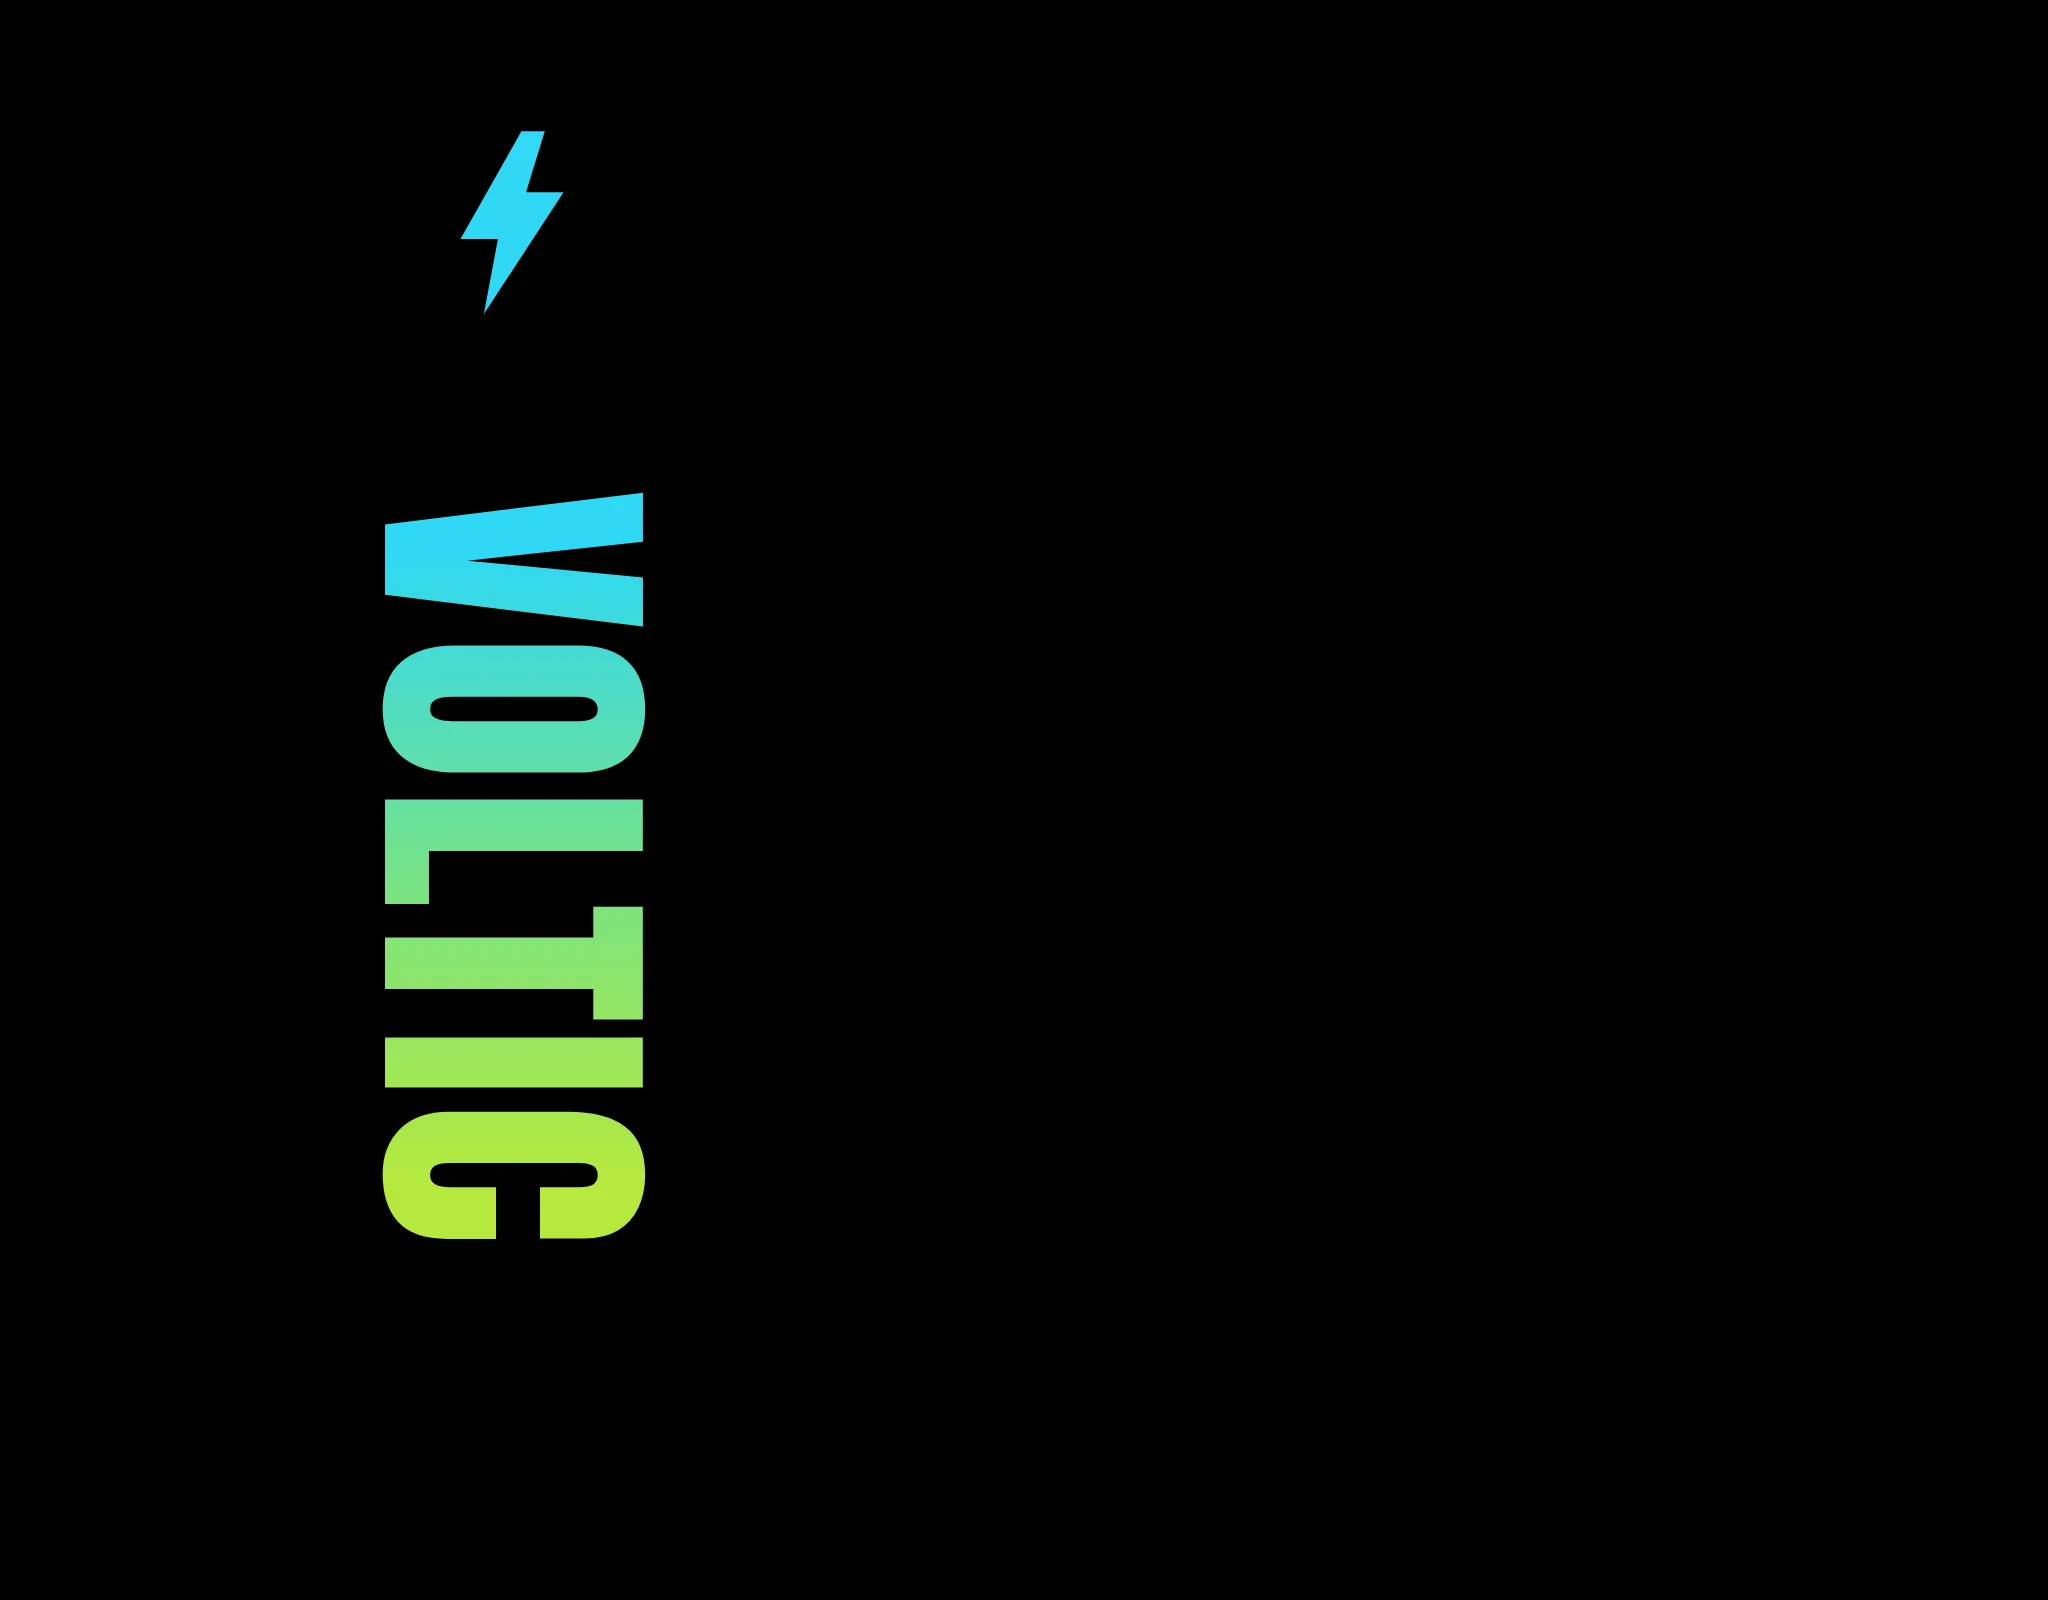
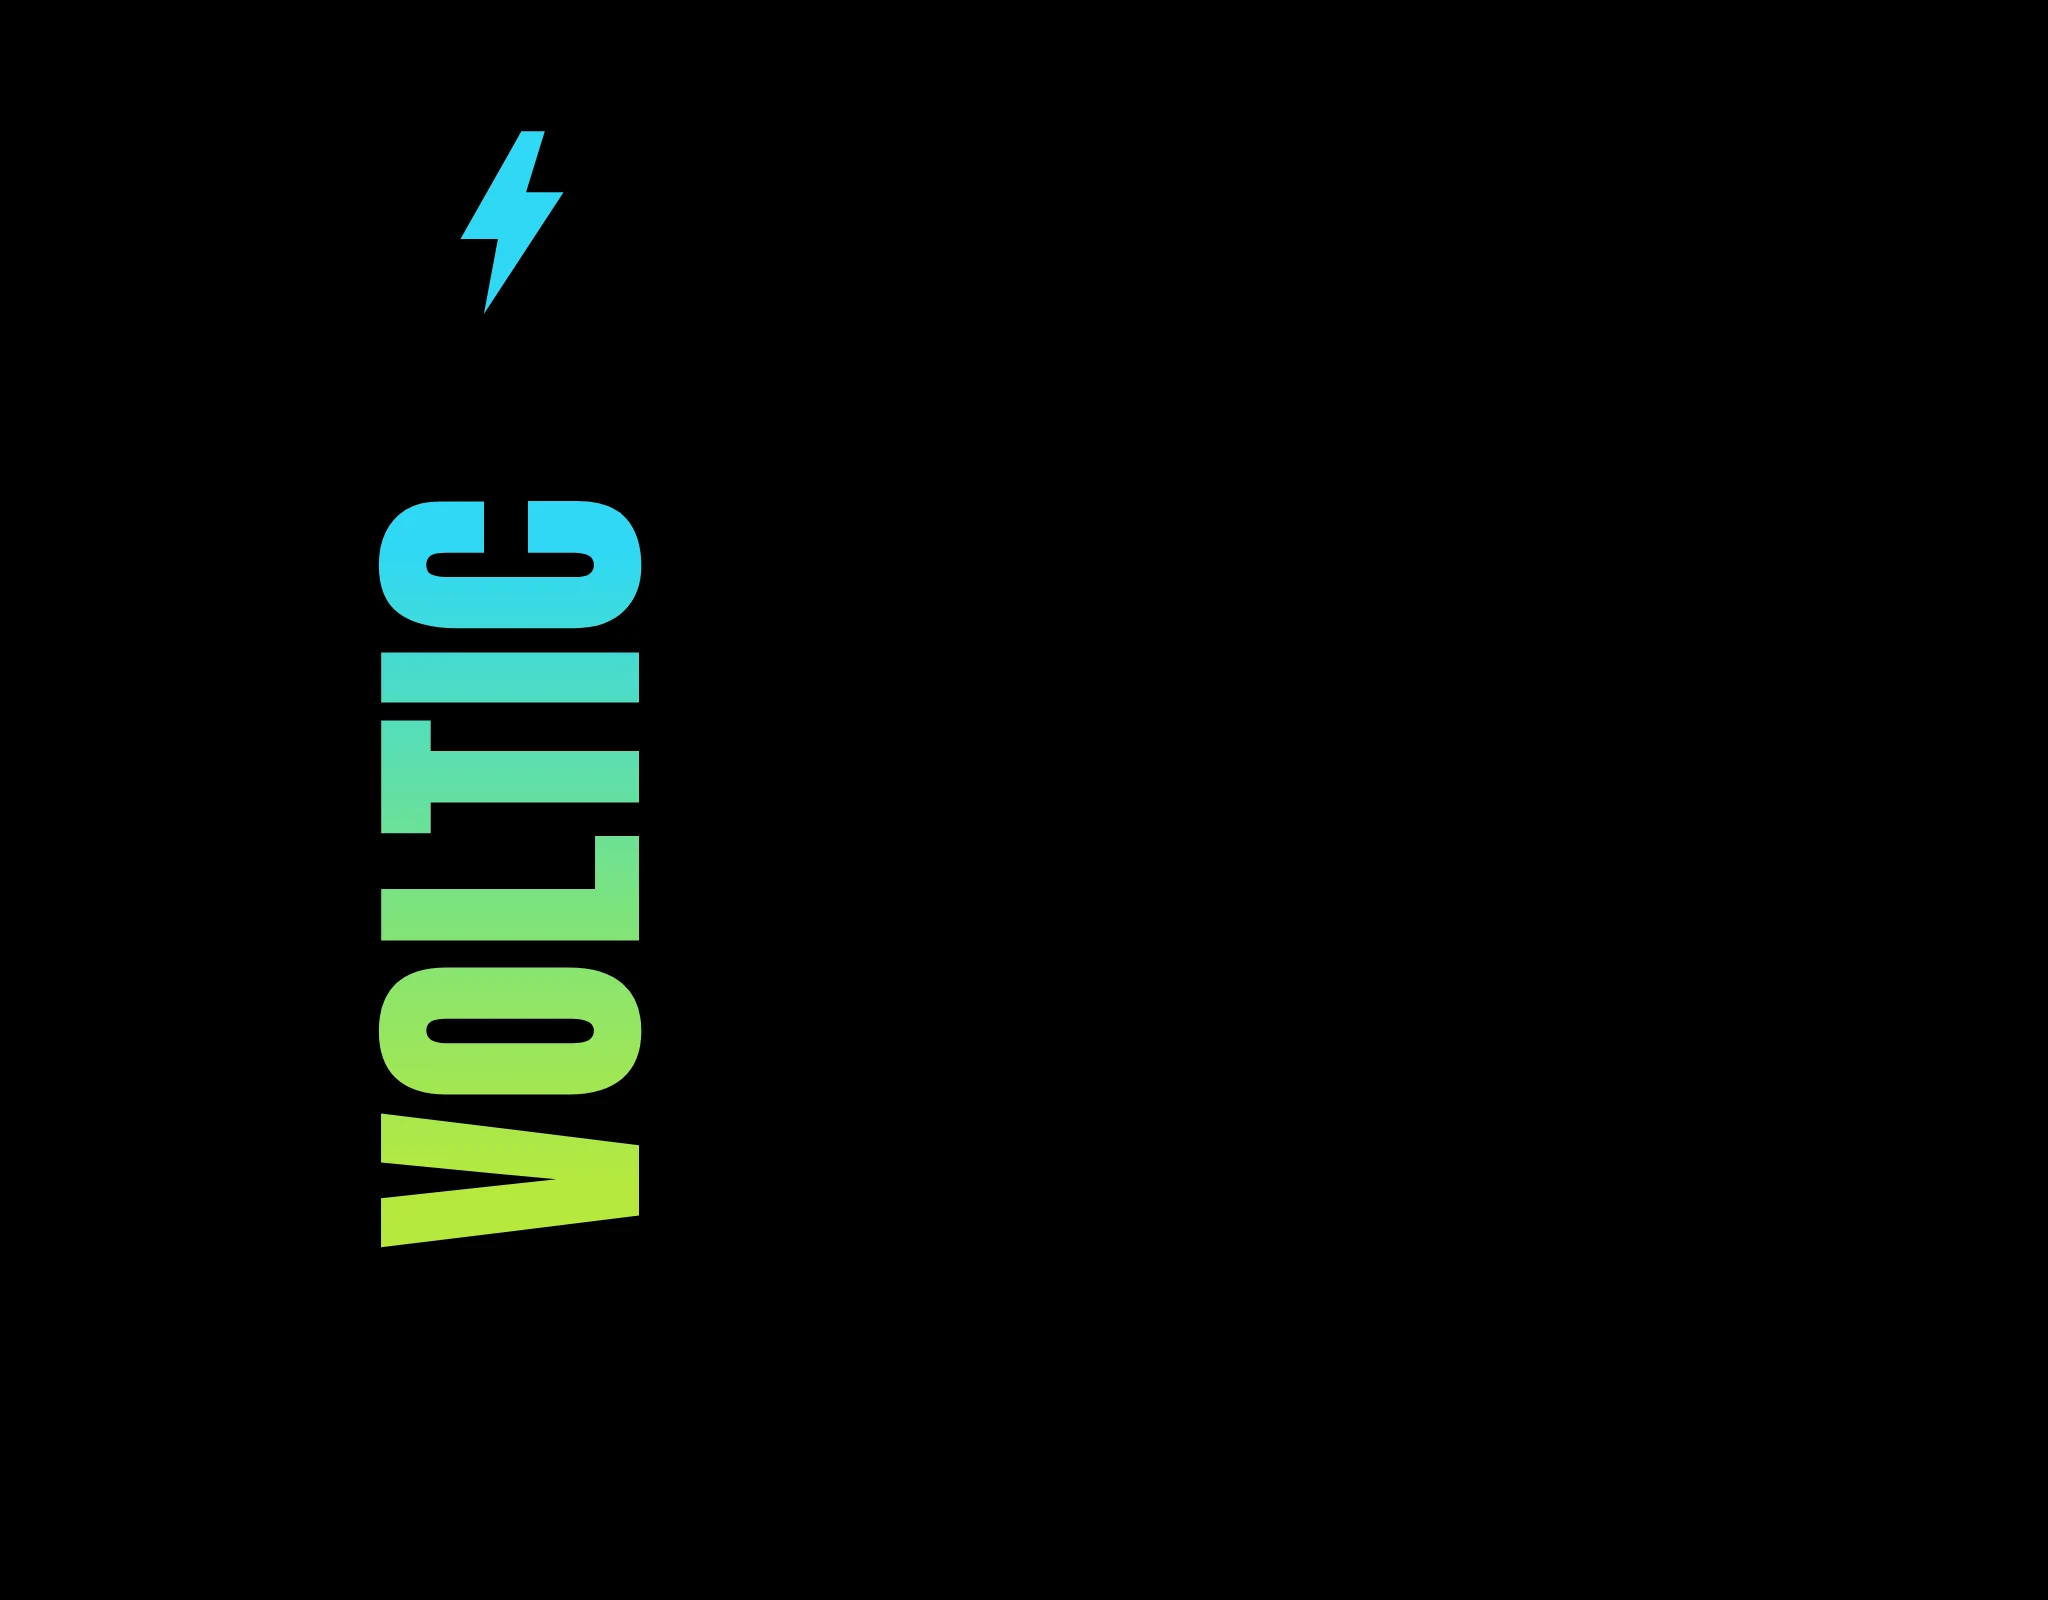
Flip the 3D wordmark to read bottom-to-top like the hero photo
rotate(-90deg) with the gradient stops reversed so cyan stays at the
can's top; V now sits at the base exactly as photographed.

Changed region(s): [[0.1875, 0.3125, 0.3125, 0.7812]]

diff --git a/tools/label.html b/tools/label.html
@@ -16,10 +16,12 @@
   .front { position: absolute; left: 0; top: 0; width: 1024px; height: 1600px; }
   .bolt { position: absolute; left: 512px; top: 120px; transform: translateX(-50%); }
   .wordmark {
+    /* reads bottom-to-top like the hero photo: V at the base, C under the
+       bolt; gradient reversed pre-rotation so cyan stays at the can's top */
     position: absolute; left: 512px; top: 870px;
-    transform: translate(-50%, -50%) rotate(90deg);
+    transform: translate(-50%, -50%) rotate(-90deg);
     font-family: Anton; font-size: 300px; letter-spacing: 0.02em;
-    background: linear-gradient(90deg, #2fd8f5 8%, #7de37d 55%, #b7e93c 92%);
+    background: linear-gradient(90deg, #b7e93c 8%, #7de37d 45%, #2fd8f5 92%);
     -webkit-background-clip: text; background-clip: text; color: transparent;
     white-space: nowrap;
   }
